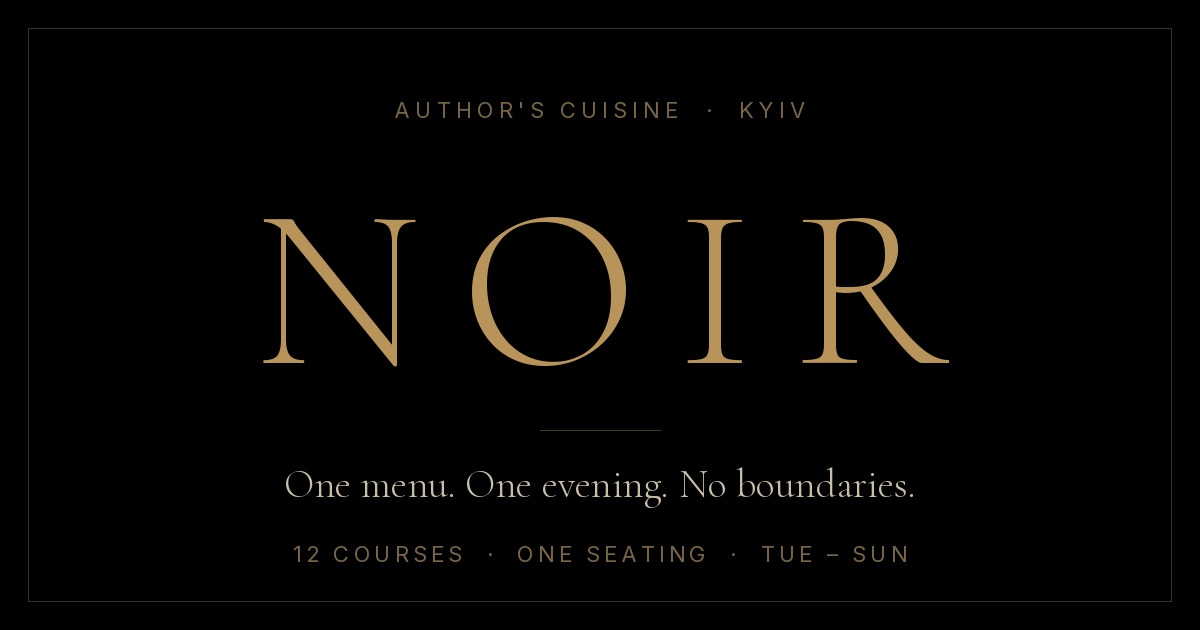
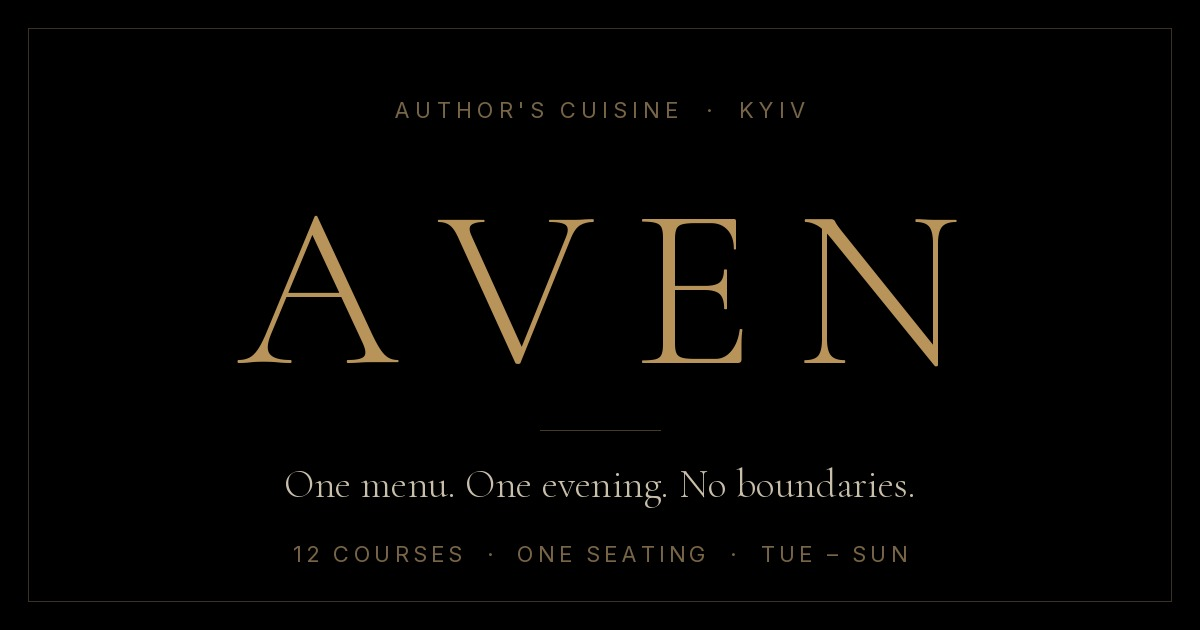
Add files via upload

diff --git a/index.html b/index.html
@@ -3,32 +3,32 @@
 <head>
 <meta charset="UTF-8">
 <meta name="viewport" content="width=device-width, initial-scale=1.0">
-<title>NAYA — Fine Dining Restaurant, Kyiv</title>
-<meta name="description" content="NAYA — author's cuisine in Kyiv. One tasting menu of 12 courses that changes every evening, one seating per night. Reserve your table.">
+<title>AVEN — Fine Dining Restaurant, Kyiv</title>
+<meta name="description" content="AVEN — author's cuisine in Kyiv. One tasting menu of 12 courses that changes every evening, one seating per night. Reserve your table.">
 <meta name="robots" content="index, follow">
 <meta name="theme-color" content="#0A0A09">
-<!-- TODO: домен. Замінити «https://naya.kyiv/» на реальний — зустрічається 6 разів (canonical, og:url, og:image, twitter:image, JSON-LD url, і сам цей коментар). Find & Replace по файлу -->
-<link rel="canonical" href="https://naya.kyiv/">
+<!-- TODO: домен. Замінити «https://aven.kyiv/» на реальний — зустрічається 6 разів (canonical, og:url, og:image, twitter:image, JSON-LD url, і сам цей коментар). Find & Replace по файлу -->
+<link rel="canonical" href="https://aven.kyiv/">
 
 <!-- Open Graph -->
 <meta property="og:type" content="website">
-<meta property="og:site_name" content="NAYA">
-<meta property="og:title" content="NAYA — Fine Dining Restaurant, Kyiv">
+<meta property="og:site_name" content="AVEN">
+<meta property="og:title" content="AVEN — Fine Dining Restaurant, Kyiv">
 <meta property="og:description" content="Author's cuisine in Kyiv. One tasting menu of 12 courses that changes every evening, one seating per night. Reserve your table.">
-<meta property="og:url" content="https://naya.kyiv/">
+<meta property="og:url" content="https://aven.kyiv/">
 <!-- og:image: файл og-image.jpg (1200×630) лежить поряд з index.html; URL має бути абсолютним, тому домен нижче — замінити -->
-<meta property="og:image" content="https://naya.kyiv/og-image.jpg">
+<meta property="og:image" content="https://aven.kyiv/og-image.jpg">
 <meta property="og:image:width" content="1200">
 <meta property="og:image:height" content="630">
-<meta property="og:image:alt" content="NAYA — fine dining restaurant, Kyiv">
+<meta property="og:image:alt" content="AVEN — fine dining restaurant, Kyiv">
 <meta property="og:locale" content="en_US">
 <meta property="og:locale:alternate" content="uk_UA">
 
 <!-- Twitter / X -->
 <meta name="twitter:card" content="summary_large_image">
-<meta name="twitter:title" content="NAYA — Fine Dining Restaurant, Kyiv">
+<meta name="twitter:title" content="AVEN — Fine Dining Restaurant, Kyiv">
 <meta name="twitter:description" content="Author's cuisine in Kyiv. One tasting menu of 12 courses that changes every evening, one seating per night.">
-<meta name="twitter:image" content="https://naya.kyiv/og-image.jpg">
+<meta name="twitter:image" content="https://aven.kyiv/og-image.jpg">
 
 <!-- Favicons: файли лежать у папці /favicon поряд з index.html -->
 <link rel="icon" href="favicon/favicon.ico" sizes="16x16 32x32 48x48">
@@ -167,7 +167,7 @@ blockquote{font-family:'Cormorant Garamond','Apple Garamond','Times New Roman',s
 cite{font-size:9px;letter-spacing:0.2em;text-transform:uppercase;color:var(--gold);font-style:normal}
 
 .cta-band{text-align:center;padding:100px 48px;background:var(--graphite);position:relative;overflow:hidden}
-.cta-band::before{content:'NAYA';position:absolute;top:50%;left:50%;transform:translate(-50%,-50%);font-family:'Cormorant Garamond','Apple Garamond','Times New Roman',serif;font-size:240px;font-weight:300;color:rgba(255,255,255,0.025);white-space:nowrap;pointer-events:none;letter-spacing:0.12em}
+.cta-band::before{content:'AVEN';position:absolute;top:50%;left:50%;transform:translate(-50%,-50%);font-family:'Cormorant Garamond','Apple Garamond','Times New Roman',serif;font-size:240px;font-weight:300;color:rgba(255,255,255,0.025);white-space:nowrap;pointer-events:none;letter-spacing:0.12em}
 .cta-band .sec-body{max-width:420px;margin:0 auto 44px}
 
 footer{padding:64px 48px 32px;border-top:0.5px solid var(--graphite);background:var(--noir)}
@@ -353,7 +353,7 @@ button,a,.table-item,.lang span,.mm-lang span{touch-action:manipulation;-webkit-
 
 /* ─── RESERVATIONS PAGE ─── */
 .rp-hero{padding:120px 64px 56px;background:var(--noir);text-align:center;position:relative;overflow:hidden}
-.rp-hero::before{content:'NAYA';position:absolute;top:50%;left:50%;transform:translate(-50%,-50%);font-family:'Cormorant Garamond','Apple Garamond','Times New Roman',serif;font-size:220px;font-weight:300;color:rgba(255,255,255,0.02);white-space:nowrap;pointer-events:none;letter-spacing:0.12em}
+.rp-hero::before{content:'AVEN';position:absolute;top:50%;left:50%;transform:translate(-50%,-50%);font-family:'Cormorant Garamond','Apple Garamond','Times New Roman',serif;font-size:220px;font-weight:300;color:rgba(255,255,255,0.02);white-space:nowrap;pointer-events:none;letter-spacing:0.12em}
 .rp-hero .sec-title{font-size:clamp(44px,6vw,80px);margin-bottom:16px}
 .rp-hero .sec-body{max-width:480px;margin:0 auto}
 
@@ -528,11 +528,11 @@ select.form-input{cursor:pointer}
 {
   "@context": "https://schema.org",
   "@type": "Restaurant",
-  "name": "NAYA",
+  "name": "AVEN",
   "description": "Author's cuisine in Kyiv. One tasting menu of 12 courses that changes every evening, one seating per night.",
-  "url": "https://naya.kyiv/",
+  "url": "https://aven.kyiv/",
   "telephone": "+380440000000",
-  "email": "hello@naya.kyiv",
+  "email": "hello@aven.kyiv",
   "servesCuisine": "Author's cuisine",
   "priceRange": "€€€",
   "address": {"@type": "PostalAddress", "streetAddress": "32 Saksahanskoho St", "addressLocality": "Kyiv", "postalCode": "01033", "addressCountry": "UA"},
@@ -557,7 +557,7 @@ select.form-input{cursor:pointer}
 
 <!-- NAV -->
 <nav id="mainNav">
-  <span class="nav-logo" onclick="navigate('home')">NAYA</span>
+  <span class="nav-logo" onclick="navigate('home')">AVEN</span>
   <ul class="nav-links">
     <li><a onclick="navigate('home','concept')">Concept</a></li>
     <li><a onclick="navigate('menu')">Menu</a></li>
@@ -583,7 +583,7 @@ select.form-input{cursor:pointer}
     <div class="hero-grad"></div>
     <div class="hero-content">
       <p class="eyebrow" style="margin-bottom:24px">Author's cuisine · Kyiv</p>
-      <h1 class="hero-title">NAYA</h1>
+      <h1 class="hero-title">AVEN</h1>
       <p class="hero-sub">One menu. One evening.<br>No boundaries.</p>
       <div class="hero-btns">
         <button class="btn-primary" onclick="navigate('reservations')">Reserve a table</button>
@@ -600,13 +600,13 @@ select.form-input{cursor:pointer}
 
   <section class="concept" id="concept">
     <div class="concept-img-wrap reveal-left">
-      <img loading="lazy" decoding="async" class="concept-img" src="https://res.cloudinary.com/dcwwjvlcv/image/upload/f_auto,q_auto,c_limit,w_1600/v1789395191/magnific_interior-of-a-luxury-fine_PiL6cJL42C_iqaeuu.jpg" srcset="https://res.cloudinary.com/dcwwjvlcv/image/upload/f_auto,q_auto,c_limit,w_640/v1789395191/magnific_interior-of-a-luxury-fine_PiL6cJL42C_iqaeuu.jpg 640w, https://res.cloudinary.com/dcwwjvlcv/image/upload/f_auto,q_auto,c_limit,w_960/v1789395191/magnific_interior-of-a-luxury-fine_PiL6cJL42C_iqaeuu.jpg 960w, https://res.cloudinary.com/dcwwjvlcv/image/upload/f_auto,q_auto,c_limit,w_1280/v1789395191/magnific_interior-of-a-luxury-fine_PiL6cJL42C_iqaeuu.jpg 1280w, https://res.cloudinary.com/dcwwjvlcv/image/upload/f_auto,q_auto,c_limit,w_1600/v1789395191/magnific_interior-of-a-luxury-fine_PiL6cJL42C_iqaeuu.jpg 1600w, https://res.cloudinary.com/dcwwjvlcv/image/upload/f_auto,q_auto,c_limit,w_1920/v1789395191/magnific_interior-of-a-luxury-fine_PiL6cJL42C_iqaeuu.jpg 1920w" sizes="(max-width: 768px) 100vw, 50vw" alt="NAYA dining room — dark interior with warm light">
+      <img loading="lazy" decoding="async" class="concept-img" src="https://res.cloudinary.com/dcwwjvlcv/image/upload/f_auto,q_auto,c_limit,w_1600/v1789395191/magnific_interior-of-a-luxury-fine_PiL6cJL42C_iqaeuu.jpg" srcset="https://res.cloudinary.com/dcwwjvlcv/image/upload/f_auto,q_auto,c_limit,w_640/v1789395191/magnific_interior-of-a-luxury-fine_PiL6cJL42C_iqaeuu.jpg 640w, https://res.cloudinary.com/dcwwjvlcv/image/upload/f_auto,q_auto,c_limit,w_960/v1789395191/magnific_interior-of-a-luxury-fine_PiL6cJL42C_iqaeuu.jpg 960w, https://res.cloudinary.com/dcwwjvlcv/image/upload/f_auto,q_auto,c_limit,w_1280/v1789395191/magnific_interior-of-a-luxury-fine_PiL6cJL42C_iqaeuu.jpg 1280w, https://res.cloudinary.com/dcwwjvlcv/image/upload/f_auto,q_auto,c_limit,w_1600/v1789395191/magnific_interior-of-a-luxury-fine_PiL6cJL42C_iqaeuu.jpg 1600w, https://res.cloudinary.com/dcwwjvlcv/image/upload/f_auto,q_auto,c_limit,w_1920/v1789395191/magnific_interior-of-a-luxury-fine_PiL6cJL42C_iqaeuu.jpg 1920w" sizes="(max-width: 768px) 100vw, 50vw" alt="AVEN dining room — dark interior with warm light">
     </div>
     <div class="concept-text reveal-right">
       <p class="eyebrow">Our philosophy</p>
       <h2 class="sec-title" style="font-size:clamp(30px,3.2vw,46px)">We don't serve food.<br>We tell <em>stories.</em></h2>
       <div class="gold-line"></div>
-      <p class="sec-body" style="margin-bottom:36px">Naya was born from a single conviction: the most powerful experience is the one you cannot predict. There is no fixed menu — only the chef, the season, and the moment of inspiration.</p>
+      <p class="sec-body" style="margin-bottom:36px">Aven was born from a single conviction: the most powerful experience is the one you cannot predict. There is no fixed menu — only the chef, the season, and the moment of inspiration.</p>
       <div class="btn-row">
         <button class="btn-ghost" onclick="navigate('chef')">Meet the chef</button>
       </div>
@@ -632,10 +632,10 @@ select.form-input{cursor:pointer}
   </section>
 
   <div class="gallery">
-    <div class="gi reveal-scale"><img loading="lazy" decoding="async" src="https://res.cloudinary.com/dcwwjvlcv/image/upload/f_auto,q_auto,c_limit,w_1600/v1789395190/magnific_side-angle-fine-dining-di_UyKOe0Vwny_mebwhm.jpg" srcset="https://res.cloudinary.com/dcwwjvlcv/image/upload/f_auto,q_auto,c_limit,w_640/v1789395190/magnific_side-angle-fine-dining-di_UyKOe0Vwny_mebwhm.jpg 640w, https://res.cloudinary.com/dcwwjvlcv/image/upload/f_auto,q_auto,c_limit,w_960/v1789395190/magnific_side-angle-fine-dining-di_UyKOe0Vwny_mebwhm.jpg 960w, https://res.cloudinary.com/dcwwjvlcv/image/upload/f_auto,q_auto,c_limit,w_1280/v1789395190/magnific_side-angle-fine-dining-di_UyKOe0Vwny_mebwhm.jpg 1280w, https://res.cloudinary.com/dcwwjvlcv/image/upload/f_auto,q_auto,c_limit,w_1600/v1789395190/magnific_side-angle-fine-dining-di_UyKOe0Vwny_mebwhm.jpg 1600w, https://res.cloudinary.com/dcwwjvlcv/image/upload/f_auto,q_auto,c_limit,w_1920/v1789395190/magnific_side-angle-fine-dining-di_UyKOe0Vwny_mebwhm.jpg 1920w" sizes="(max-width: 768px) 100vw, 50vw" alt="Fine dining dish from the NAYA tasting menu"></div>
+    <div class="gi reveal-scale"><img loading="lazy" decoding="async" src="https://res.cloudinary.com/dcwwjvlcv/image/upload/f_auto,q_auto,c_limit,w_1600/v1789395190/magnific_side-angle-fine-dining-di_UyKOe0Vwny_mebwhm.jpg" srcset="https://res.cloudinary.com/dcwwjvlcv/image/upload/f_auto,q_auto,c_limit,w_640/v1789395190/magnific_side-angle-fine-dining-di_UyKOe0Vwny_mebwhm.jpg 640w, https://res.cloudinary.com/dcwwjvlcv/image/upload/f_auto,q_auto,c_limit,w_960/v1789395190/magnific_side-angle-fine-dining-di_UyKOe0Vwny_mebwhm.jpg 960w, https://res.cloudinary.com/dcwwjvlcv/image/upload/f_auto,q_auto,c_limit,w_1280/v1789395190/magnific_side-angle-fine-dining-di_UyKOe0Vwny_mebwhm.jpg 1280w, https://res.cloudinary.com/dcwwjvlcv/image/upload/f_auto,q_auto,c_limit,w_1600/v1789395190/magnific_side-angle-fine-dining-di_UyKOe0Vwny_mebwhm.jpg 1600w, https://res.cloudinary.com/dcwwjvlcv/image/upload/f_auto,q_auto,c_limit,w_1920/v1789395190/magnific_side-angle-fine-dining-di_UyKOe0Vwny_mebwhm.jpg 1920w" sizes="(max-width: 768px) 100vw, 50vw" alt="Fine dining dish from the AVEN tasting menu"></div>
     <div class="gi reveal-scale delay-1"><img loading="lazy" decoding="async" src="https://res.cloudinary.com/dcwwjvlcv/image/upload/f_auto,q_auto,c_limit,w_1600/v1789395188/magnific_closeup-of-a-red-wine-gla_SO5JDo5Ub8_jmdfzz.jpg" srcset="https://res.cloudinary.com/dcwwjvlcv/image/upload/f_auto,q_auto,c_limit,w_640/v1789395188/magnific_closeup-of-a-red-wine-gla_SO5JDo5Ub8_jmdfzz.jpg 640w, https://res.cloudinary.com/dcwwjvlcv/image/upload/f_auto,q_auto,c_limit,w_960/v1789395188/magnific_closeup-of-a-red-wine-gla_SO5JDo5Ub8_jmdfzz.jpg 960w, https://res.cloudinary.com/dcwwjvlcv/image/upload/f_auto,q_auto,c_limit,w_1280/v1789395188/magnific_closeup-of-a-red-wine-gla_SO5JDo5Ub8_jmdfzz.jpg 1280w, https://res.cloudinary.com/dcwwjvlcv/image/upload/f_auto,q_auto,c_limit,w_1600/v1789395188/magnific_closeup-of-a-red-wine-gla_SO5JDo5Ub8_jmdfzz.jpg 1600w, https://res.cloudinary.com/dcwwjvlcv/image/upload/f_auto,q_auto,c_limit,w_1920/v1789395188/magnific_closeup-of-a-red-wine-gla_SO5JDo5Ub8_jmdfzz.jpg 1920w" sizes="(max-width: 768px) 100vw, 50vw" alt="Glass of red wine on a dark table"></div>
     <div class="gi reveal-scale delay-2"><img loading="lazy" decoding="async" src="https://res.cloudinary.com/dcwwjvlcv/image/upload/f_auto,q_auto,c_limit,w_1600/v1789395189/magnific_closeup-of-chef-hands-usi_62SZIb9iJO_sureec.jpg" srcset="https://res.cloudinary.com/dcwwjvlcv/image/upload/f_auto,q_auto,c_limit,w_640/v1789395189/magnific_closeup-of-chef-hands-usi_62SZIb9iJO_sureec.jpg 640w, https://res.cloudinary.com/dcwwjvlcv/image/upload/f_auto,q_auto,c_limit,w_960/v1789395189/magnific_closeup-of-chef-hands-usi_62SZIb9iJO_sureec.jpg 960w, https://res.cloudinary.com/dcwwjvlcv/image/upload/f_auto,q_auto,c_limit,w_1280/v1789395189/magnific_closeup-of-chef-hands-usi_62SZIb9iJO_sureec.jpg 1280w, https://res.cloudinary.com/dcwwjvlcv/image/upload/f_auto,q_auto,c_limit,w_1600/v1789395189/magnific_closeup-of-chef-hands-usi_62SZIb9iJO_sureec.jpg 1600w, https://res.cloudinary.com/dcwwjvlcv/image/upload/f_auto,q_auto,c_limit,w_1920/v1789395189/magnific_closeup-of-chef-hands-usi_62SZIb9iJO_sureec.jpg 1920w" sizes="(max-width: 768px) 100vw, 50vw" alt="Chef's hands plating a dish"></div>
-    <div class="gi reveal-scale delay-3"><img loading="lazy" decoding="async" src="https://res.cloudinary.com/dcwwjvlcv/image/upload/f_auto,q_auto,c_limit,w_1600/v1789395189/magnific_dark-restaurant-interior-_ONx9ddSynm_zyjn5i.jpg" srcset="https://res.cloudinary.com/dcwwjvlcv/image/upload/f_auto,q_auto,c_limit,w_640/v1789395189/magnific_dark-restaurant-interior-_ONx9ddSynm_zyjn5i.jpg 640w, https://res.cloudinary.com/dcwwjvlcv/image/upload/f_auto,q_auto,c_limit,w_960/v1789395189/magnific_dark-restaurant-interior-_ONx9ddSynm_zyjn5i.jpg 960w, https://res.cloudinary.com/dcwwjvlcv/image/upload/f_auto,q_auto,c_limit,w_1280/v1789395189/magnific_dark-restaurant-interior-_ONx9ddSynm_zyjn5i.jpg 1280w, https://res.cloudinary.com/dcwwjvlcv/image/upload/f_auto,q_auto,c_limit,w_1600/v1789395189/magnific_dark-restaurant-interior-_ONx9ddSynm_zyjn5i.jpg 1600w, https://res.cloudinary.com/dcwwjvlcv/image/upload/f_auto,q_auto,c_limit,w_1920/v1789395189/magnific_dark-restaurant-interior-_ONx9ddSynm_zyjn5i.jpg 1920w" sizes="(max-width: 768px) 100vw, 50vw" alt="Dark restaurant interior at NAYA"></div>
+    <div class="gi reveal-scale delay-3"><img loading="lazy" decoding="async" src="https://res.cloudinary.com/dcwwjvlcv/image/upload/f_auto,q_auto,c_limit,w_1600/v1789395189/magnific_dark-restaurant-interior-_ONx9ddSynm_zyjn5i.jpg" srcset="https://res.cloudinary.com/dcwwjvlcv/image/upload/f_auto,q_auto,c_limit,w_640/v1789395189/magnific_dark-restaurant-interior-_ONx9ddSynm_zyjn5i.jpg 640w, https://res.cloudinary.com/dcwwjvlcv/image/upload/f_auto,q_auto,c_limit,w_960/v1789395189/magnific_dark-restaurant-interior-_ONx9ddSynm_zyjn5i.jpg 960w, https://res.cloudinary.com/dcwwjvlcv/image/upload/f_auto,q_auto,c_limit,w_1280/v1789395189/magnific_dark-restaurant-interior-_ONx9ddSynm_zyjn5i.jpg 1280w, https://res.cloudinary.com/dcwwjvlcv/image/upload/f_auto,q_auto,c_limit,w_1600/v1789395189/magnific_dark-restaurant-interior-_ONx9ddSynm_zyjn5i.jpg 1600w, https://res.cloudinary.com/dcwwjvlcv/image/upload/f_auto,q_auto,c_limit,w_1920/v1789395189/magnific_dark-restaurant-interior-_ONx9ddSynm_zyjn5i.jpg 1920w" sizes="(max-width: 768px) 100vw, 50vw" alt="Dark restaurant interior at AVEN"></div>
     <div class="gi reveal-scale delay-4"><img loading="lazy" decoding="async" src="https://res.cloudinary.com/dcwwjvlcv/image/upload/f_auto,q_auto,c_limit,w_1600/v1789396222/magnific_img1-img2_ks4JcuS16B_jkg0od.jpg" srcset="https://res.cloudinary.com/dcwwjvlcv/image/upload/f_auto,q_auto,c_limit,w_640/v1789396222/magnific_img1-img2_ks4JcuS16B_jkg0od.jpg 640w, https://res.cloudinary.com/dcwwjvlcv/image/upload/f_auto,q_auto,c_limit,w_960/v1789396222/magnific_img1-img2_ks4JcuS16B_jkg0od.jpg 960w, https://res.cloudinary.com/dcwwjvlcv/image/upload/f_auto,q_auto,c_limit,w_1280/v1789396222/magnific_img1-img2_ks4JcuS16B_jkg0od.jpg 1280w, https://res.cloudinary.com/dcwwjvlcv/image/upload/f_auto,q_auto,c_limit,w_1600/v1789396222/magnific_img1-img2_ks4JcuS16B_jkg0od.jpg 1600w, https://res.cloudinary.com/dcwwjvlcv/image/upload/f_auto,q_auto,c_limit,w_1920/v1789396222/magnific_img1-img2_ks4JcuS16B_jkg0od.jpg 1920w" sizes="(max-width: 768px) 100vw, 50vw" alt="Overhead view of a plated course"></div>
   </div>
 
@@ -646,7 +646,7 @@ select.form-input{cursor:pointer}
       <div class="gold-line"></div>
       <p class="sec-body" style="margin-bottom:0">Once studied physics. Then understood that food is a more precise science. Internship in Copenhagen. Two years in Tokyo. Returned home with a different perspective.</p>
       <blockquote>"I don't cook dishes. I capture a moment — this season, this ingredient, this state of mind."</blockquote>
-      <cite>— Chef, Naya</cite>
+      <cite>— Chef, Aven</cite>
       <div class="btn-row" style="margin-top:36px"><button class="btn-ghost" onclick="navigate('chef')">About the chef</button></div>
     </div>
     <div class="chef-home-img reveal-right">
@@ -664,7 +664,7 @@ select.form-input{cursor:pointer}
   <footer>
     <div class="f-top">
       <div class="f-col">
-        <div class="f-logo">NAYA</div>
+        <div class="f-logo">AVEN</div>
         <p class="f-tag">One menu. One evening.<br>No boundaries.</p>
       </div>
       <div class="f-col">
@@ -677,7 +677,7 @@ select.form-input{cursor:pointer}
       </div>
       <div class="f-col">
         <p class="f-head">Contact</p>
-        <p class="f-txt"><a href="tel:+380440000000">+380 44 000 0000</a><br><a href="mailto:hello@naya.kyiv">hello@naya.kyiv</a></p>
+        <p class="f-txt"><a href="tel:+380440000000">+380 44 000 0000</a><br><a href="mailto:hello@aven.kyiv">hello@aven.kyiv</a></p>
       </div>
       <div class="f-col">
         <p class="f-head">Follow</p>
@@ -693,7 +693,7 @@ select.form-input{cursor:pointer}
         <a onclick="navigate('chef')">Chef</a>
         <a onclick="navigate('reservations')">Reservations</a>
       </div>
-      <p class="f-copy">© 2026 NAYA · Kyiv</p>
+      <p class="f-copy">© 2026 AVEN · Kyiv</p>
     </div>
   </footer>
 </div>
@@ -702,7 +702,7 @@ select.form-input{cursor:pointer}
 <div class="page" id="page-menu">
 
   <div class="mp-hero">
-    <img loading="lazy" decoding="async" src="https://res.cloudinary.com/dcwwjvlcv/image/upload/f_auto,q_auto,c_limit,w_1600/v1789395190/magnific_side-angle-fine-dining-di_UyKOe0Vwny_mebwhm.jpg" srcset="https://res.cloudinary.com/dcwwjvlcv/image/upload/f_auto,q_auto,c_limit,w_640/v1789395190/magnific_side-angle-fine-dining-di_UyKOe0Vwny_mebwhm.jpg 640w, https://res.cloudinary.com/dcwwjvlcv/image/upload/f_auto,q_auto,c_limit,w_960/v1789395190/magnific_side-angle-fine-dining-di_UyKOe0Vwny_mebwhm.jpg 960w, https://res.cloudinary.com/dcwwjvlcv/image/upload/f_auto,q_auto,c_limit,w_1280/v1789395190/magnific_side-angle-fine-dining-di_UyKOe0Vwny_mebwhm.jpg 1280w, https://res.cloudinary.com/dcwwjvlcv/image/upload/f_auto,q_auto,c_limit,w_1600/v1789395190/magnific_side-angle-fine-dining-di_UyKOe0Vwny_mebwhm.jpg 1600w, https://res.cloudinary.com/dcwwjvlcv/image/upload/f_auto,q_auto,c_limit,w_1920/v1789395190/magnific_side-angle-fine-dining-di_UyKOe0Vwny_mebwhm.jpg 1920w" sizes="(max-width: 768px) 100vw, 50vw" alt="Fine dining dish — NAYA tasting menu">
+    <img loading="lazy" decoding="async" src="https://res.cloudinary.com/dcwwjvlcv/image/upload/f_auto,q_auto,c_limit,w_1600/v1789395190/magnific_side-angle-fine-dining-di_UyKOe0Vwny_mebwhm.jpg" srcset="https://res.cloudinary.com/dcwwjvlcv/image/upload/f_auto,q_auto,c_limit,w_640/v1789395190/magnific_side-angle-fine-dining-di_UyKOe0Vwny_mebwhm.jpg 640w, https://res.cloudinary.com/dcwwjvlcv/image/upload/f_auto,q_auto,c_limit,w_960/v1789395190/magnific_side-angle-fine-dining-di_UyKOe0Vwny_mebwhm.jpg 960w, https://res.cloudinary.com/dcwwjvlcv/image/upload/f_auto,q_auto,c_limit,w_1280/v1789395190/magnific_side-angle-fine-dining-di_UyKOe0Vwny_mebwhm.jpg 1280w, https://res.cloudinary.com/dcwwjvlcv/image/upload/f_auto,q_auto,c_limit,w_1600/v1789395190/magnific_side-angle-fine-dining-di_UyKOe0Vwny_mebwhm.jpg 1600w, https://res.cloudinary.com/dcwwjvlcv/image/upload/f_auto,q_auto,c_limit,w_1920/v1789395190/magnific_side-angle-fine-dining-di_UyKOe0Vwny_mebwhm.jpg 1920w" sizes="(max-width: 768px) 100vw, 50vw" alt="Fine dining dish — AVEN tasting menu">
     <div class="mp-hero-grad"></div>
     <div class="mp-hero-content">
       <p class="eyebrow">Tasting menu</p>
@@ -716,7 +716,7 @@ select.form-input{cursor:pointer}
       <h2 class="sec-title" style="font-size:clamp(28px,3vw,40px)">Below — the feelings<br>that stay.</h2>
     </div>
     <div class="reveal-right">
-      <p class="sec-body">There is no fixed menu at Naya. Each evening, the chef composes a new sequence of twelve courses built entirely around what the season offers and what the moment demands. No two evenings are the same.</p>
+      <p class="sec-body">There is no fixed menu at Aven. Each evening, the chef composes a new sequence of twelve courses built entirely around what the season offers and what the moment demands. No two evenings are the same.</p>
     </div>
   </div>
 
@@ -775,9 +775,9 @@ select.form-input{cursor:pointer}
   </section>
 
   <div class="mp-gallery">
-    <div class="mp-gi reveal-scale"><img loading="lazy" decoding="async" src="https://res.cloudinary.com/dcwwjvlcv/image/upload/f_auto,q_auto,c_limit,w_1600/v1789395188/magnific_closeup-of-a-red-wine-gla_SO5JDo5Ub8_jmdfzz.jpg" srcset="https://res.cloudinary.com/dcwwjvlcv/image/upload/f_auto,q_auto,c_limit,w_640/v1789395188/magnific_closeup-of-a-red-wine-gla_SO5JDo5Ub8_jmdfzz.jpg 640w, https://res.cloudinary.com/dcwwjvlcv/image/upload/f_auto,q_auto,c_limit,w_960/v1789395188/magnific_closeup-of-a-red-wine-gla_SO5JDo5Ub8_jmdfzz.jpg 960w, https://res.cloudinary.com/dcwwjvlcv/image/upload/f_auto,q_auto,c_limit,w_1280/v1789395188/magnific_closeup-of-a-red-wine-gla_SO5JDo5Ub8_jmdfzz.jpg 1280w, https://res.cloudinary.com/dcwwjvlcv/image/upload/f_auto,q_auto,c_limit,w_1600/v1789395188/magnific_closeup-of-a-red-wine-gla_SO5JDo5Ub8_jmdfzz.jpg 1600w, https://res.cloudinary.com/dcwwjvlcv/image/upload/f_auto,q_auto,c_limit,w_1920/v1789395188/magnific_closeup-of-a-red-wine-gla_SO5JDo5Ub8_jmdfzz.jpg 1920w" sizes="(max-width: 768px) 100vw, 50vw" alt="Glass of red wine — wine pairing at NAYA"></div>
+    <div class="mp-gi reveal-scale"><img loading="lazy" decoding="async" src="https://res.cloudinary.com/dcwwjvlcv/image/upload/f_auto,q_auto,c_limit,w_1600/v1789395188/magnific_closeup-of-a-red-wine-gla_SO5JDo5Ub8_jmdfzz.jpg" srcset="https://res.cloudinary.com/dcwwjvlcv/image/upload/f_auto,q_auto,c_limit,w_640/v1789395188/magnific_closeup-of-a-red-wine-gla_SO5JDo5Ub8_jmdfzz.jpg 640w, https://res.cloudinary.com/dcwwjvlcv/image/upload/f_auto,q_auto,c_limit,w_960/v1789395188/magnific_closeup-of-a-red-wine-gla_SO5JDo5Ub8_jmdfzz.jpg 960w, https://res.cloudinary.com/dcwwjvlcv/image/upload/f_auto,q_auto,c_limit,w_1280/v1789395188/magnific_closeup-of-a-red-wine-gla_SO5JDo5Ub8_jmdfzz.jpg 1280w, https://res.cloudinary.com/dcwwjvlcv/image/upload/f_auto,q_auto,c_limit,w_1600/v1789395188/magnific_closeup-of-a-red-wine-gla_SO5JDo5Ub8_jmdfzz.jpg 1600w, https://res.cloudinary.com/dcwwjvlcv/image/upload/f_auto,q_auto,c_limit,w_1920/v1789395188/magnific_closeup-of-a-red-wine-gla_SO5JDo5Ub8_jmdfzz.jpg 1920w" sizes="(max-width: 768px) 100vw, 50vw" alt="Glass of red wine — wine pairing at AVEN"></div>
     <div class="mp-gi reveal-scale delay-1"><img loading="lazy" decoding="async" src="https://res.cloudinary.com/dcwwjvlcv/image/upload/f_auto,q_auto,c_limit,w_1600/v1789396222/magnific_img1-img2_ks4JcuS16B_jkg0od.jpg" srcset="https://res.cloudinary.com/dcwwjvlcv/image/upload/f_auto,q_auto,c_limit,w_640/v1789396222/magnific_img1-img2_ks4JcuS16B_jkg0od.jpg 640w, https://res.cloudinary.com/dcwwjvlcv/image/upload/f_auto,q_auto,c_limit,w_960/v1789396222/magnific_img1-img2_ks4JcuS16B_jkg0od.jpg 960w, https://res.cloudinary.com/dcwwjvlcv/image/upload/f_auto,q_auto,c_limit,w_1280/v1789396222/magnific_img1-img2_ks4JcuS16B_jkg0od.jpg 1280w, https://res.cloudinary.com/dcwwjvlcv/image/upload/f_auto,q_auto,c_limit,w_1600/v1789396222/magnific_img1-img2_ks4JcuS16B_jkg0od.jpg 1600w, https://res.cloudinary.com/dcwwjvlcv/image/upload/f_auto,q_auto,c_limit,w_1920/v1789396222/magnific_img1-img2_ks4JcuS16B_jkg0od.jpg 1920w" sizes="(max-width: 768px) 100vw, 50vw" alt="Overhead view of a plated dessert course"></div>
-    <div class="mp-gi reveal-scale delay-2"><img loading="lazy" decoding="async" src="https://res.cloudinary.com/dcwwjvlcv/image/upload/f_auto,q_auto,c_limit,w_1600/v1789395189/magnific_dark-restaurant-interior-_ONx9ddSynm_zyjn5i.jpg" srcset="https://res.cloudinary.com/dcwwjvlcv/image/upload/f_auto,q_auto,c_limit,w_640/v1789395189/magnific_dark-restaurant-interior-_ONx9ddSynm_zyjn5i.jpg 640w, https://res.cloudinary.com/dcwwjvlcv/image/upload/f_auto,q_auto,c_limit,w_960/v1789395189/magnific_dark-restaurant-interior-_ONx9ddSynm_zyjn5i.jpg 960w, https://res.cloudinary.com/dcwwjvlcv/image/upload/f_auto,q_auto,c_limit,w_1280/v1789395189/magnific_dark-restaurant-interior-_ONx9ddSynm_zyjn5i.jpg 1280w, https://res.cloudinary.com/dcwwjvlcv/image/upload/f_auto,q_auto,c_limit,w_1600/v1789395189/magnific_dark-restaurant-interior-_ONx9ddSynm_zyjn5i.jpg 1600w, https://res.cloudinary.com/dcwwjvlcv/image/upload/f_auto,q_auto,c_limit,w_1920/v1789395189/magnific_dark-restaurant-interior-_ONx9ddSynm_zyjn5i.jpg 1920w" sizes="(max-width: 768px) 100vw, 50vw" alt="Dark dining room interior at NAYA"></div>
+    <div class="mp-gi reveal-scale delay-2"><img loading="lazy" decoding="async" src="https://res.cloudinary.com/dcwwjvlcv/image/upload/f_auto,q_auto,c_limit,w_1600/v1789395189/magnific_dark-restaurant-interior-_ONx9ddSynm_zyjn5i.jpg" srcset="https://res.cloudinary.com/dcwwjvlcv/image/upload/f_auto,q_auto,c_limit,w_640/v1789395189/magnific_dark-restaurant-interior-_ONx9ddSynm_zyjn5i.jpg 640w, https://res.cloudinary.com/dcwwjvlcv/image/upload/f_auto,q_auto,c_limit,w_960/v1789395189/magnific_dark-restaurant-interior-_ONx9ddSynm_zyjn5i.jpg 960w, https://res.cloudinary.com/dcwwjvlcv/image/upload/f_auto,q_auto,c_limit,w_1280/v1789395189/magnific_dark-restaurant-interior-_ONx9ddSynm_zyjn5i.jpg 1280w, https://res.cloudinary.com/dcwwjvlcv/image/upload/f_auto,q_auto,c_limit,w_1600/v1789395189/magnific_dark-restaurant-interior-_ONx9ddSynm_zyjn5i.jpg 1600w, https://res.cloudinary.com/dcwwjvlcv/image/upload/f_auto,q_auto,c_limit,w_1920/v1789395189/magnific_dark-restaurant-interior-_ONx9ddSynm_zyjn5i.jpg 1920w" sizes="(max-width: 768px) 100vw, 50vw" alt="Dark dining room interior at AVEN"></div>
   </div>
 
   <div class="mp-price reveal">
@@ -798,7 +798,7 @@ select.form-input{cursor:pointer}
   <footer>
     <div class="f-top">
       <div class="f-col">
-        <div class="f-logo">NAYA</div>
+        <div class="f-logo">AVEN</div>
         <p class="f-tag">One menu. One evening.<br>No boundaries.</p>
       </div>
       <div class="f-col">
@@ -811,7 +811,7 @@ select.form-input{cursor:pointer}
       </div>
       <div class="f-col">
         <p class="f-head">Contact</p>
-        <p class="f-txt"><a href="tel:+380440000000">+380 44 000 0000</a><br><a href="mailto:hello@naya.kyiv">hello@naya.kyiv</a></p>
+        <p class="f-txt"><a href="tel:+380440000000">+380 44 000 0000</a><br><a href="mailto:hello@aven.kyiv">hello@aven.kyiv</a></p>
       </div>
       <div class="f-col">
         <p class="f-head">Follow</p>
@@ -827,7 +827,7 @@ select.form-input{cursor:pointer}
         <a onclick="navigate('chef')">Chef</a>
         <a onclick="navigate('reservations')">Reservations</a>
       </div>
-      <p class="f-copy">© 2026 NAYA · Kyiv</p>
+      <p class="f-copy">© 2026 AVEN · Kyiv</p>
     </div>
   </footer>
 </div>
@@ -837,7 +837,7 @@ select.form-input{cursor:pointer}
 
   <div class="cp-hero">
     <div class="cp-hero-img">
-      <img loading="lazy" decoding="async" src="https://res.cloudinary.com/dcwwjvlcv/image/upload/f_auto,q_auto,c_limit,w_1600/v1789399049/magnific_expand_4RTY6gO9Aa_gfotwd.jpg" srcset="https://res.cloudinary.com/dcwwjvlcv/image/upload/f_auto,q_auto,c_limit,w_640/v1789399049/magnific_expand_4RTY6gO9Aa_gfotwd.jpg 640w, https://res.cloudinary.com/dcwwjvlcv/image/upload/f_auto,q_auto,c_limit,w_960/v1789399049/magnific_expand_4RTY6gO9Aa_gfotwd.jpg 960w, https://res.cloudinary.com/dcwwjvlcv/image/upload/f_auto,q_auto,c_limit,w_1280/v1789399049/magnific_expand_4RTY6gO9Aa_gfotwd.jpg 1280w, https://res.cloudinary.com/dcwwjvlcv/image/upload/f_auto,q_auto,c_limit,w_1600/v1789399049/magnific_expand_4RTY6gO9Aa_gfotwd.jpg 1600w, https://res.cloudinary.com/dcwwjvlcv/image/upload/f_auto,q_auto,c_limit,w_1920/v1789399049/magnific_expand_4RTY6gO9Aa_gfotwd.jpg 1920w" sizes="(max-width: 768px) 100vw, 50vw" alt="Chef Maxim Koval in the NAYA kitchen">
+      <img loading="lazy" decoding="async" src="https://res.cloudinary.com/dcwwjvlcv/image/upload/f_auto,q_auto,c_limit,w_1600/v1789399049/magnific_expand_4RTY6gO9Aa_gfotwd.jpg" srcset="https://res.cloudinary.com/dcwwjvlcv/image/upload/f_auto,q_auto,c_limit,w_640/v1789399049/magnific_expand_4RTY6gO9Aa_gfotwd.jpg 640w, https://res.cloudinary.com/dcwwjvlcv/image/upload/f_auto,q_auto,c_limit,w_960/v1789399049/magnific_expand_4RTY6gO9Aa_gfotwd.jpg 960w, https://res.cloudinary.com/dcwwjvlcv/image/upload/f_auto,q_auto,c_limit,w_1280/v1789399049/magnific_expand_4RTY6gO9Aa_gfotwd.jpg 1280w, https://res.cloudinary.com/dcwwjvlcv/image/upload/f_auto,q_auto,c_limit,w_1600/v1789399049/magnific_expand_4RTY6gO9Aa_gfotwd.jpg 1600w, https://res.cloudinary.com/dcwwjvlcv/image/upload/f_auto,q_auto,c_limit,w_1920/v1789399049/magnific_expand_4RTY6gO9Aa_gfotwd.jpg 1920w" sizes="(max-width: 768px) 100vw, 50vw" alt="Chef Maxim Koval in the AVEN kitchen">
     </div>
     <div class="cp-hero-content">
       <p class="eyebrow">The chef</p>
@@ -871,37 +871,37 @@ select.form-input{cursor:pointer}
       <div class="cp-event reveal delay-3">
         <div class="cp-event-date"><span>Kyiv</span><p>Now</p></div>
         <div class="cp-line-wrap"><div class="cp-dot"></div></div>
-        <div class="cp-event-text"><h3>Naya</h3><p>Returned with no interest in a fixed menu or a national cuisine. Built Naya around a single question: what can this ingredient say, today, in this season?</p></div>
+        <div class="cp-event-text"><h3>Aven</h3><p>Returned with no interest in a fixed menu or a national cuisine. Built Aven around a single question: what can this ingredient say, today, in this season?</p></div>
       </div>
     </div>
   </section>
 
   <section class="cp-philosophy">
     <div class="cp-phil-img reveal-left">
-      <img loading="lazy" decoding="async" src="https://res.cloudinary.com/dcwwjvlcv/image/upload/f_auto,q_auto,c_limit,w_1600/v1789396222/magnific_img1-img2_ks4JcuS16B_jkg0od.jpg" srcset="https://res.cloudinary.com/dcwwjvlcv/image/upload/f_auto,q_auto,c_limit,w_640/v1789396222/magnific_img1-img2_ks4JcuS16B_jkg0od.jpg 640w, https://res.cloudinary.com/dcwwjvlcv/image/upload/f_auto,q_auto,c_limit,w_960/v1789396222/magnific_img1-img2_ks4JcuS16B_jkg0od.jpg 960w, https://res.cloudinary.com/dcwwjvlcv/image/upload/f_auto,q_auto,c_limit,w_1280/v1789396222/magnific_img1-img2_ks4JcuS16B_jkg0od.jpg 1280w, https://res.cloudinary.com/dcwwjvlcv/image/upload/f_auto,q_auto,c_limit,w_1600/v1789396222/magnific_img1-img2_ks4JcuS16B_jkg0od.jpg 1600w, https://res.cloudinary.com/dcwwjvlcv/image/upload/f_auto,q_auto,c_limit,w_1920/v1789396222/magnific_img1-img2_ks4JcuS16B_jkg0od.jpg 1920w" sizes="(max-width: 768px) 100vw, 50vw" alt="Plated course from the NAYA tasting menu">
+      <img loading="lazy" decoding="async" src="https://res.cloudinary.com/dcwwjvlcv/image/upload/f_auto,q_auto,c_limit,w_1600/v1789396222/magnific_img1-img2_ks4JcuS16B_jkg0od.jpg" srcset="https://res.cloudinary.com/dcwwjvlcv/image/upload/f_auto,q_auto,c_limit,w_640/v1789396222/magnific_img1-img2_ks4JcuS16B_jkg0od.jpg 640w, https://res.cloudinary.com/dcwwjvlcv/image/upload/f_auto,q_auto,c_limit,w_960/v1789396222/magnific_img1-img2_ks4JcuS16B_jkg0od.jpg 960w, https://res.cloudinary.com/dcwwjvlcv/image/upload/f_auto,q_auto,c_limit,w_1280/v1789396222/magnific_img1-img2_ks4JcuS16B_jkg0od.jpg 1280w, https://res.cloudinary.com/dcwwjvlcv/image/upload/f_auto,q_auto,c_limit,w_1600/v1789396222/magnific_img1-img2_ks4JcuS16B_jkg0od.jpg 1600w, https://res.cloudinary.com/dcwwjvlcv/image/upload/f_auto,q_auto,c_limit,w_1920/v1789396222/magnific_img1-img2_ks4JcuS16B_jkg0od.jpg 1920w" sizes="(max-width: 768px) 100vw, 50vw" alt="Plated course from the AVEN tasting menu">
     </div>
     <div class="cp-phil-text reveal-right">
       <p class="eyebrow">Philosophy</p>
       <h2 class="sec-title" style="font-size:clamp(28px,3vw,40px)">Building menus<br>around questions.</h2>
       <div class="gold-line"></div>
       <p class="sec-body" style="margin-bottom:28px">I don't build menus around a country or an era. I build them around a question: what can this ingredient say today? The answer changes with the season, the market, the mood — and that's the point.</p>
-      <p class="sec-body">No two evenings at Naya are the same. That's not a limitation. That's the entire idea.</p>
+      <p class="sec-body">No two evenings at Aven are the same. That's not a limitation. That's the entire idea.</p>
     </div>
   </section>
 
   <section class="cp-quote-band">
     <p class="eyebrow reveal" style="margin-bottom:36px">In his own words</p>
     <p class="cp-big-quote reveal">"I don't cook dishes. I capture a moment — this season, this ingredient, this state of mind."</p>
-    <cite class="reveal">— Maxim Koval, Chef and founder, Naya</cite>
+    <cite class="reveal">— Maxim Koval, Chef and founder, Aven</cite>
     <div style="margin-top:52px" class="reveal">
-      <button class="btn-primary btn-lg" onclick="navigate('reservations')">Experience Naya</button>
+      <button class="btn-primary btn-lg" onclick="navigate('reservations')">Experience Aven</button>
     </div>
   </section>
 
   <footer>
     <div class="f-top">
       <div class="f-col">
-        <div class="f-logo">NAYA</div>
+        <div class="f-logo">AVEN</div>
         <p class="f-tag">One menu. One evening.<br>No boundaries.</p>
       </div>
       <div class="f-col">
@@ -914,7 +914,7 @@ select.form-input{cursor:pointer}
       </div>
       <div class="f-col">
         <p class="f-head">Contact</p>
-        <p class="f-txt"><a href="tel:+380440000000">+380 44 000 0000</a><br><a href="mailto:hello@naya.kyiv">hello@naya.kyiv</a></p>
+        <p class="f-txt"><a href="tel:+380440000000">+380 44 000 0000</a><br><a href="mailto:hello@aven.kyiv">hello@aven.kyiv</a></p>
       </div>
       <div class="f-col">
         <p class="f-head">Follow</p>
@@ -930,7 +930,7 @@ select.form-input{cursor:pointer}
         <a onclick="navigate('chef')">Chef</a>
         <a onclick="navigate('reservations')">Reservations</a>
       </div>
-      <p class="f-copy">© 2026 NAYA · Kyiv</p>
+      <p class="f-copy">© 2026 AVEN · Kyiv</p>
     </div>
   </footer>
 </div>
@@ -1224,7 +1224,7 @@ var RESERVATION_ACCESS_KEY = '';
 function collectReservation(){
   var g = function(id){ return (document.getElementById(id).value || '').trim(); };
   return {
-    subject: 'NAYA — table reservation request',
+    subject: 'AVEN — table reservation request',
     table: selectedTable ? ('Table ' + selectedTable.id + ' (' + selectedTable.zone + ', up to ' + selectedTable.seats + ')') : '',
     first_name: g('fieldName'), last_name: g('fieldLastname'),
     phone: g('fieldPhone'), email: g('fieldEmail'),
@@ -1513,7 +1513,7 @@ var I18N = {
   "Courses per evening":"страв за вечір","Seating per night":"посадка за вечір","Seasonal ingredients":"сезонних інгредієнтів",
   "Our philosophy":"Наша філософія",
   "We don't serve food.<br>We tell <em>stories.</em>":"Ми не подаємо їжу.<br>Ми розповідаємо <em>історії.</em>",
-  "Naya was born from a single conviction: the most powerful experience is the one you cannot predict. There is no fixed menu — only the chef, the season, and the moment of inspiration.":"Naya народився з одного переконання: найсильніше враження — те, яке неможливо передбачити. Тут немає сталого меню — лише шеф, сезон і мить натхнення.",
+  "Aven was born from a single conviction: the most powerful experience is the one you cannot predict. There is no fixed menu — only the chef, the season, and the moment of inspiration.":"Aven народився з одного переконання: найсильніше враження — те, яке неможливо передбачити. Тут немає сталого меню — лише шеф, сезон і мить натхнення.",
   "Meet the chef":"Познайомитися з шефом","Tasting experience":"Дегустаційний досвід",
   "The menu changes<br><em>every evening</em>":"Меню змінюється<br><em>щовечора</em>",
   "Cold Opening":"Холодний початок","Lightness, acidity, first contact. The conversation begins.":"Легкість, кислинка, перший дотик. Розмова починається.",
@@ -1524,15 +1524,15 @@ var I18N = {
   "Reserve your seat":"Забронювати місце","The chef":"Шеф","Maxim<br>Koval":"Максим<br>Коваль",
   "Once studied physics. Then understood that food is a more precise science. Internship in Copenhagen. Two years in Tokyo. Returned home with a different perspective.":"Колись вивчав фізику. Потім зрозумів, що їжа — точніша наука. Стажування в Копенгагені. Два роки в Токіо. Повернувся додому з іншим поглядом.",
   "\"I don't cook dishes. I capture a moment — this season, this ingredient, this state of mind.\"":"«Я не готую страви. Я ловлю мить — цей сезон, цей інгредієнт, цей стан.»",
-  "— Chef, Naya":"— Шеф, Naya","About the chef":"Про шефа","Limited seats":"Обмежена кількість місць",
+  "— Chef, Aven":"— Шеф, Aven","About the chef":"Про шефа","Limited seats":"Обмежена кількість місць",
   "Reserve your evening.":"Забронюйте свій вечір.",
   "Open Tue–Sun from 7 PM. Seats are limited. Confirmation within 2 hours.":"Працюємо вт–нд з 19:00. Кількість місць обмежена. Підтвердження протягом 2 годин.",
   "Visit":"Адреса","32 Saksahanskoho St<br>Kyiv, 01033":"вул. Саксаганського, 32<br>Київ, 01033",
   "Hours":"Години роботи","Tue – Fri · 7 PM – 11 PM<br>Sat – Sun · 6 PM – 11 PM":"Вт – Пт · 19:00 – 23:00<br>Сб – Нд · 18:00 – 23:00",
-  "Follow":"Соцмережі","© 2026 NAYA · Kyiv":"© 2026 NAYA · Київ",
+  "Follow":"Соцмережі","© 2026 AVEN · Kyiv":"© 2026 AVEN · Київ",
   "Tasting menu":"Дегустаційне меню","The menu<br>changes <em>nightly.</em>":"Меню<br>змінюється <em>щовечора.</em>",
   "Our approach":"Наш підхід","Below — the feelings<br>that stay.":"Нижче — відчуття,<br>які залишаються.",
-  "There is no fixed menu at Naya. Each evening, the chef composes a new sequence of twelve courses built entirely around what the season offers and what the moment demands. No two evenings are the same.":"У Naya немає сталого меню. Щовечора шеф складає нову послідовність із дванадцяти страв — навколо того, що дає сезон і чого вимагає момент. Двох однакових вечорів не буває.",
+  "There is no fixed menu at Aven. Each evening, the chef composes a new sequence of twelve courses built entirely around what the season offers and what the moment demands. No two evenings are the same.":"У Aven немає сталого меню. Щовечора шеф складає нову послідовність із дванадцяти страв — навколо того, що дає сезон і чого вимагає момент. Двох однакових вечорів не буває.",
   "7:00 – 7:30 PM · 30 min":"19:00 – 19:30 · 30 хв",
   "7:30 – 8:00 PM · 30 min":"19:30 – 20:00 · 30 хв",
   "8:00 – 9:00 PM · 60 min":"20:00 – 21:00 · 60 хв",
@@ -1592,11 +1592,11 @@ var I18N = {
   "Tokyo":"Токіо","Two years":"Два роки","A different relationship with ingredients":"Інші стосунки з інгредієнтами",
   "Japan changed everything about how he saw a product. Not as raw material to transform, but as something with its own voice — worth listening to before deciding anything.":"Японія змінила все в тому, як він бачив продукт. Не як сировину для перетворення, а як щось із власним голосом — який варто почути, перш ніж щось вирішувати.",
   "Now":"Сьогодні",
-  "Returned with no interest in a fixed menu or a national cuisine. Built Naya around a single question: what can this ingredient say, today, in this season?":"Повернувся без інтересу до сталого меню чи національної кухні. Побудував Naya навколо одного питання: що цей інгредієнт може сказати сьогодні, у цей сезон?",
+  "Returned with no interest in a fixed menu or a national cuisine. Built Aven around a single question: what can this ingredient say, today, in this season?":"Повернувся без інтересу до сталого меню чи національної кухні. Побудував Aven навколо одного питання: що цей інгредієнт може сказати сьогодні, у цей сезон?",
   "Philosophy":"Філософія","Building menus<br>around questions.":"Меню, побудоване<br>навколо питань.",
   "I don't build menus around a country or an era. I build them around a question: what can this ingredient say today? The answer changes with the season, the market, the mood — and that's the point.":"Я не будую меню навколо країни чи епохи. Я будую його навколо питання: що цей інгредієнт може сказати сьогодні? Відповідь змінюється разом із сезоном, ринком, настроєм — і в цьому суть.",
-  "No two evenings at Naya are the same. That's not a limitation. That's the entire idea.":"Двох однакових вечорів у Naya не буває. Це не обмеження. Це і є вся ідея.",
-  "In his own words":"Його словами","— Maxim Koval, Chef and founder, Naya":"— Максим Коваль, шеф і засновник Naya","Experience Naya":"Відчути Naya",
+  "No two evenings at Aven are the same. That's not a limitation. That's the entire idea.":"Двох однакових вечорів у Aven не буває. Це не обмеження. Це і є вся ідея.",
+  "In his own words":"Його словами","— Maxim Koval, Chef and founder, Aven":"— Максим Коваль, шеф і засновник Aven","Experience Aven":"Відчути Aven",
   "Table reservations":"Бронювання столиків",
   "Select a table — floor plan":"Оберіть столик — план залу","Available":"Доступний","Selected":"Обрано","Reserved":"Зайнято",
   "Booking details":"Деталі бронювання","Your table":"Ваш столик",
@@ -1671,10 +1671,10 @@ function setLang(lang){
   // refresh dynamic texts
   if(typeof wzRefresh === 'function') wzRefresh();
   REQUIRED_FIELDS.forEach(function(id){ var el = document.getElementById(id); if(el && el.classList.contains('is-invalid')) validateField(id); });
-  try{ localStorage.setItem('naya-lang', lang); }catch(e){}
+  try{ localStorage.setItem('aven-lang', lang); }catch(e){}
 }
 document.addEventListener('DOMContentLoaded', function(){
-  var saved = null; try{ saved = localStorage.getItem('naya-lang'); }catch(e){}
+  var saved = null; try{ saved = localStorage.getItem('aven-lang'); }catch(e){}
   if(saved === 'uk') setLang('uk');
 });
 
@@ -1999,7 +1999,7 @@ document.addEventListener('DOMContentLoaded', function(){
   <footer>
     <div class="f-top">
       <div class="f-col">
-        <div class="f-logo">NAYA</div>
+        <div class="f-logo">AVEN</div>
         <p class="f-tag">One menu. One evening.<br>No boundaries.</p>
       </div>
       <div class="f-col">
@@ -2012,7 +2012,7 @@ document.addEventListener('DOMContentLoaded', function(){
       </div>
       <div class="f-col">
         <p class="f-head">Contact</p>
-        <p class="f-txt"><a href="tel:+380440000000">+380 44 000 0000</a><br><a href="mailto:hello@naya.kyiv">hello@naya.kyiv</a></p>
+        <p class="f-txt"><a href="tel:+380440000000">+380 44 000 0000</a><br><a href="mailto:hello@aven.kyiv">hello@aven.kyiv</a></p>
       </div>
       <div class="f-col">
         <p class="f-head">Follow</p>
@@ -2028,7 +2028,7 @@ document.addEventListener('DOMContentLoaded', function(){
         <a onclick="navigate('chef')">Chef</a>
         <a onclick="navigate('reservations')">Reservations</a>
       </div>
-      <p class="f-copy">© 2026 NAYA · Kyiv</p>
+      <p class="f-copy">© 2026 AVEN · Kyiv</p>
     </div>
   </footer>
 
